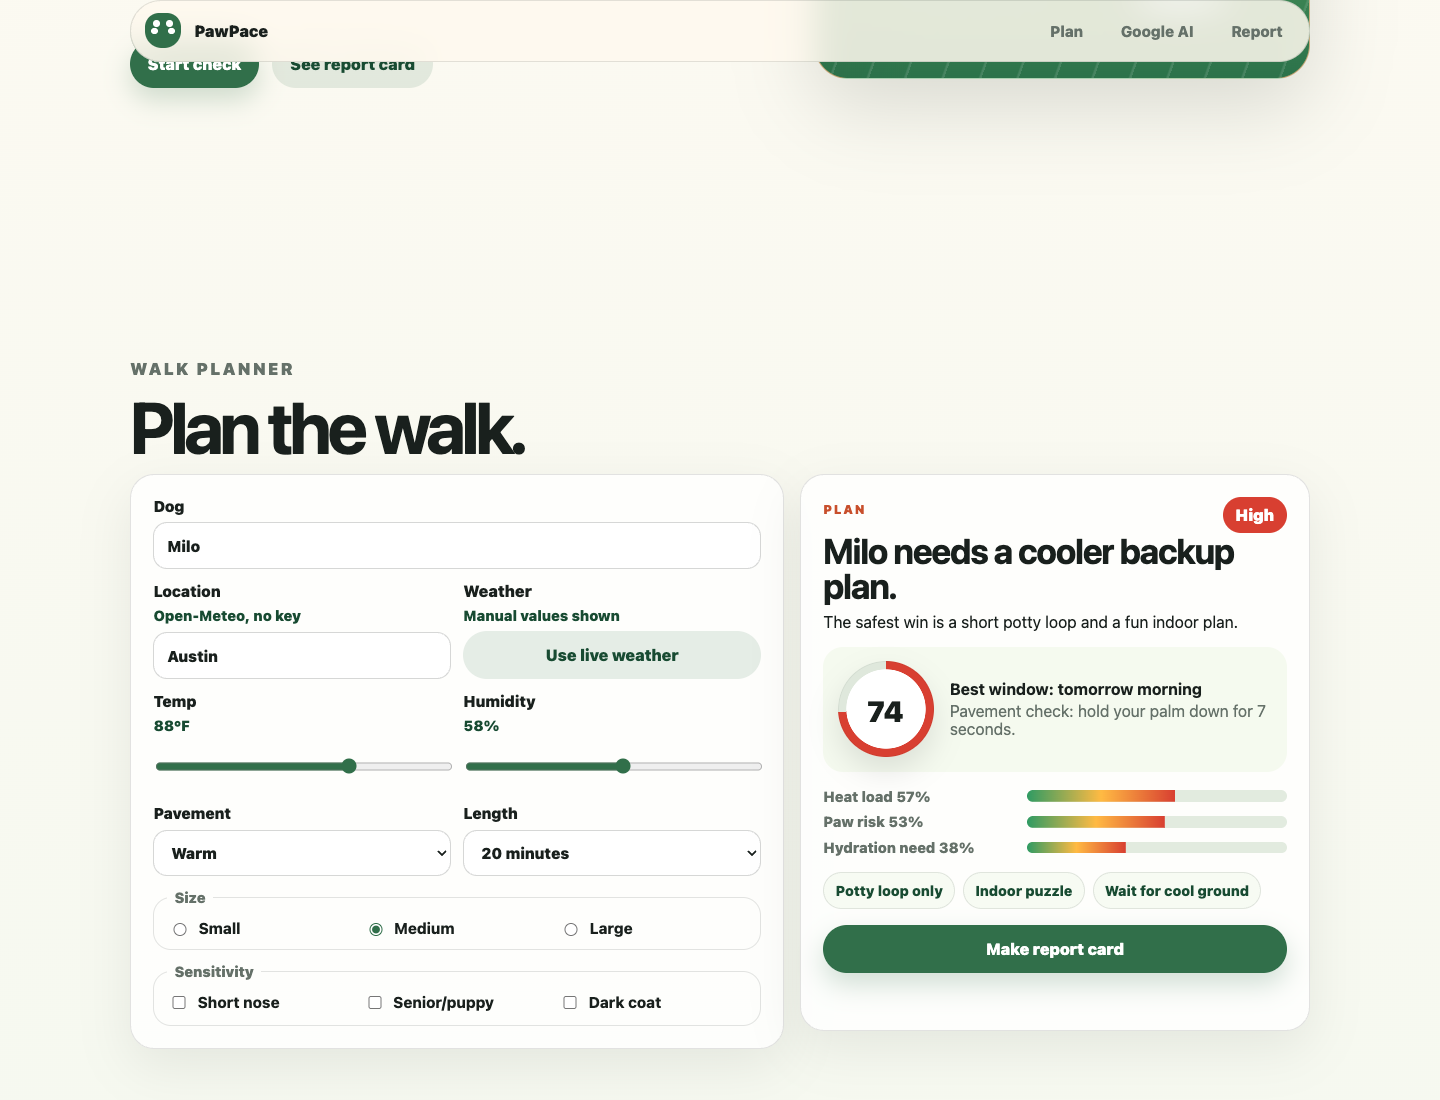
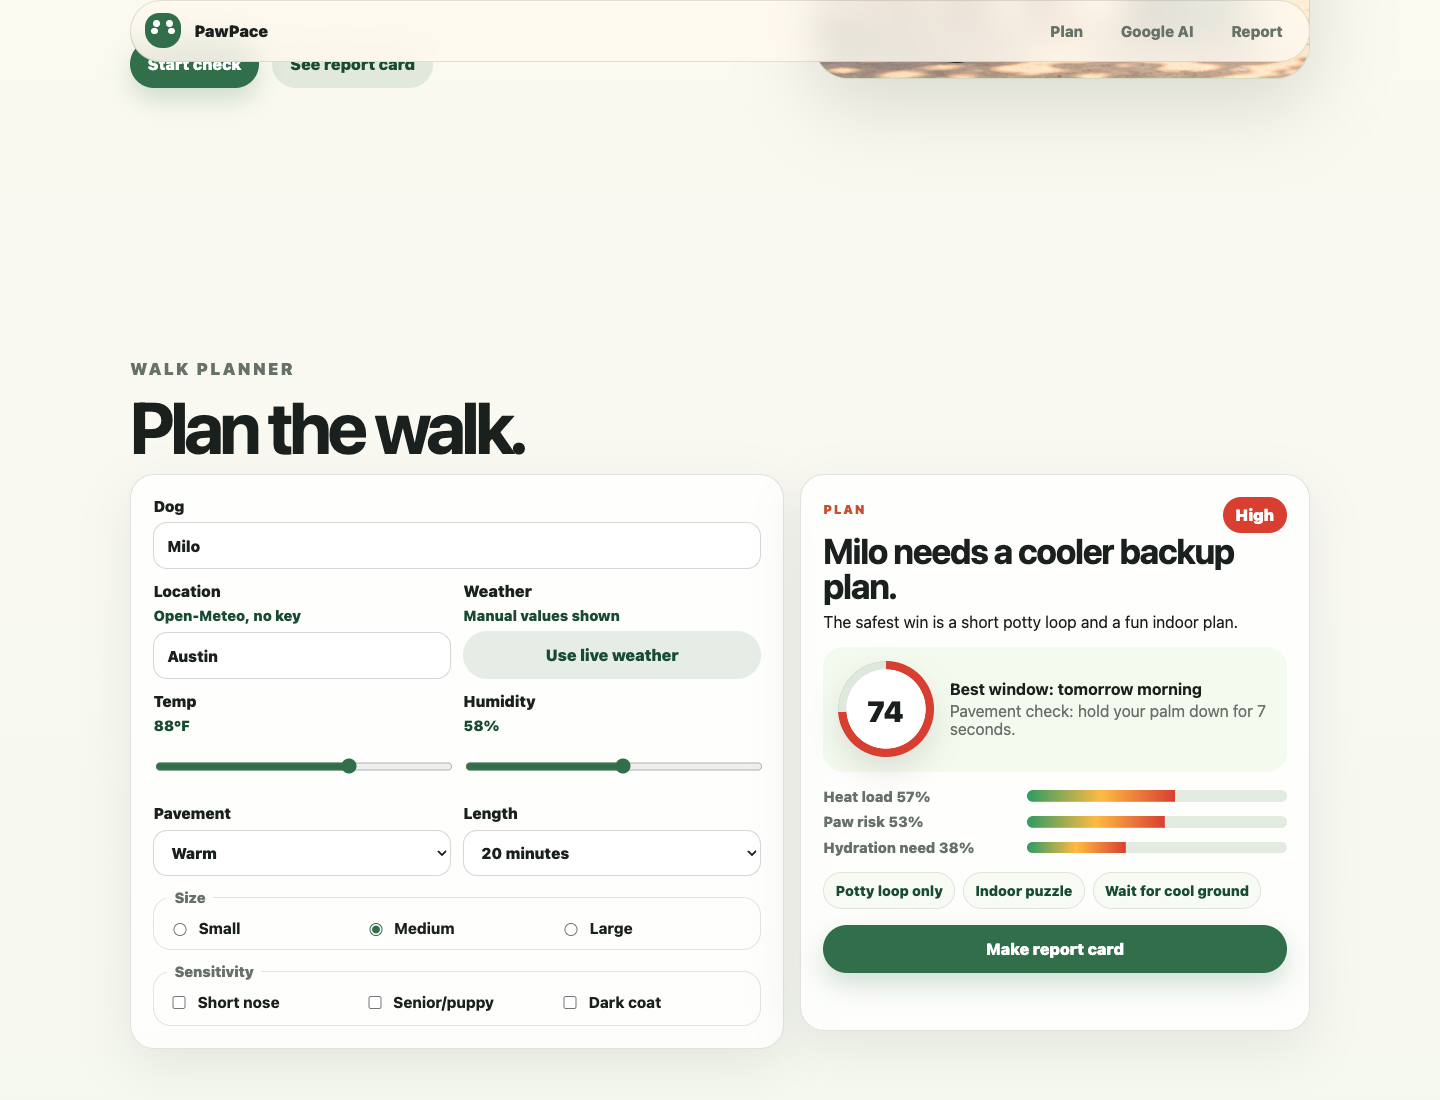
Use polished PawPace dog hero

Changed region(s): [[0.5625, 0.0, 0.9375, 0.0927]]

diff --git a/dog-days/styles.css b/dog-days/styles.css
@@ -266,230 +266,19 @@ select:focus-visible,
   overflow: hidden;
   border: 1px solid rgba(25, 32, 29, 0.12);
   border-radius: 34px;
-  background:
-    radial-gradient(circle at 78% 22%, rgba(255, 186, 67, 0.55), transparent 9rem),
-    linear-gradient(180deg, #bfe9c6 0%, #f7edc9 55%, #dbb37d 100%);
+  background: #eaf4d9;
   box-shadow: var(--shadow);
+  animation: hero-card-float 5.5s ease-in-out infinite;
 }
 
-.dog-card::before {
-  content: "";
+.hero-dog-image {
   position: absolute;
-  inset: 53% 0 0;
-  background:
-    repeating-linear-gradient(110deg, transparent 0 2rem, rgba(255, 255, 255, 0.12) 2.1rem 2.2rem),
-    linear-gradient(180deg, #5aa865, #2c724a);
-  border-radius: 42% 42% 0 0 / 12% 12% 0 0;
-}
-
-.sun {
-  position: absolute;
-  right: 12%;
-  top: 10%;
-  width: 7.4rem;
-  aspect-ratio: 1;
-  border-radius: 50%;
-  background: #ffd86d;
-  box-shadow: 0 0 64px rgba(255, 186, 67, 0.72);
-  animation: sun-pulse 4s ease-in-out infinite;
-}
-
-.shade {
-  position: absolute;
-  left: 0;
-  top: 0;
-  width: 58%;
+  inset: 0;
+  width: 100%;
   height: 100%;
-  background: linear-gradient(115deg, rgba(25, 32, 29, 0.14), transparent 66%);
-}
-
-.leash {
-  position: absolute;
-  left: 14%;
-  top: 20%;
-  width: 17rem;
-  height: 17rem;
-  border: 0.7rem solid rgba(31, 111, 139, 0.7);
-  border-left-color: transparent;
-  border-bottom-color: transparent;
-  border-radius: 50%;
-  transform: rotate(24deg);
-}
-
-.dog {
-  position: absolute;
-  left: 22%;
-  bottom: 14%;
-  width: min(48vw, 360px);
-  height: 260px;
-  filter: drop-shadow(0 18px 18px rgba(25, 32, 29, 0.15));
-  animation: dog-breathe 3.2s ease-in-out infinite;
-}
-
-.dog span {
-  position: absolute;
-}
-
-.dog::after {
-  content: "";
-  position: absolute;
-  left: 23%;
-  right: 7%;
-  bottom: 3%;
-  height: 1rem;
-  border-radius: 50%;
-  background: rgba(25, 32, 29, 0.14);
-  filter: blur(8px);
-}
-
-.body {
-  left: 25%;
-  bottom: 18%;
-  width: 58%;
-  height: 42%;
-  border-radius: 48% 44% 42% 48%;
-  background: linear-gradient(145deg, #f4b15a, #b96331);
-  box-shadow: inset -22px -18px 0 rgba(116, 56, 27, 0.18);
-  transform-origin: center bottom;
-  animation: body-squish 3.2s ease-in-out infinite;
-}
-
-.head {
-  left: 4%;
-  bottom: 39%;
-  width: 37%;
-  aspect-ratio: 1;
-  border-radius: 52% 44% 54% 46%;
-  background: linear-gradient(145deg, #ffcc7d, #bc6c34);
-  box-shadow:
-    inset -0.85rem -0.7rem 0 rgba(119, 55, 27, 0.12),
-    inset 0.6rem 0.5rem 0 rgba(255, 236, 181, 0.23);
-  animation: head-tilt 3.8s ease-in-out infinite;
-}
-
-.head::before {
-  content: "";
-  position: absolute;
-  left: 18%;
-  bottom: 20%;
-  width: 1rem;
-  aspect-ratio: 1;
-  border-radius: 50%;
-  background: rgba(255, 132, 105, 0.24);
-}
-
-.head::after {
-  content: none;
-}
-
-.ear {
-  left: 12%;
-  bottom: 60%;
-  width: 17%;
-  height: 34%;
-  border-radius: 78% 22% 72% 28%;
-  background: linear-gradient(160deg, #8a4328, #6e301f);
-  transform: rotate(-30deg);
-  transform-origin: 70% 15%;
-  animation: ear-flop 3.8s ease-in-out infinite;
-}
-
-.eye {
-  left: 27%;
-  bottom: 61%;
-  width: 0.7rem;
-  aspect-ratio: 1;
-  border-radius: 50%;
-  background: var(--ink);
-  box-shadow: 0.15rem -0.12rem 0 0.08rem rgba(255, 255, 255, 0.8);
-  transform-origin: center;
-  animation: blink 5s ease-in-out infinite;
-}
-
-.nose {
-  left: 5%;
-  bottom: 53%;
-  width: 1rem;
-  aspect-ratio: 1.25;
-  border-radius: 50%;
-  background: var(--ink);
-  box-shadow: 0.18rem -0.08rem 0 0.08rem rgba(255, 255, 255, 0.24);
-}
-
-.nose::after {
-  content: "";
-  position: absolute;
-  left: 0.68rem;
-  top: 0.72rem;
-  width: 1.35rem;
-  height: 0.62rem;
-  border-bottom: 0.16rem solid rgba(25, 32, 29, 0.64);
-  border-radius: 0 0 999px 999px;
-}
-
-.tail {
-  right: 1%;
-  bottom: 46%;
-  width: 30%;
-  height: 18%;
-  border-radius: 999px;
-  border-top: 1.2rem solid #b96331;
-  transform: rotate(36deg);
-  transform-origin: left center;
-  animation: tail-wag 0.88s ease-in-out infinite;
-}
-
-.leg {
-  bottom: 8%;
-  width: 12%;
-  height: 24%;
-  border-radius: 999px;
-  background: #8a4729;
-  box-shadow: inset -0.32rem -0.25rem 0 rgba(25, 32, 29, 0.12);
-}
-
-.leg.front { left: 35%; }
-.leg.back { left: 68%; }
-
-.bowl {
-  position: absolute;
-  right: 13%;
-  bottom: 11%;
-  width: 8rem;
-  height: 4.2rem;
-  border-radius: 12% 12% 50% 50%;
-  background: linear-gradient(180deg, #fff, #91c9e1);
-  box-shadow: 0 16px 24px rgba(25, 32, 29, 0.2);
-}
-
-.bowl span {
-  position: absolute;
-  left: 12%;
-  top: 14%;
-  width: 76%;
-  height: 24%;
-  border-radius: 50%;
-  background: #6fc5e7;
-}
-
-.thermo {
-  position: absolute;
-  right: 18%;
-  top: 34%;
-  width: 1.2rem;
-  height: 12rem;
-  border-radius: 999px;
-  background: rgba(255, 255, 255, 0.64);
-}
-
-.thermo span {
-  position: absolute;
-  left: 18%;
-  right: 18%;
-  bottom: 8%;
-  height: 68%;
-  border-radius: 999px;
-  background: linear-gradient(180deg, var(--hot), var(--sun));
+  object-fit: cover;
+  object-position: 52% center;
+  transform: scale(1.02);
 }
 
 .section-heading {
@@ -869,74 +658,13 @@ input[type="radio"] {
   white-space: nowrap;
 }
 
-@keyframes tail-wag {
-  0%,
-  100% {
-    transform: rotate(24deg);
-  }
-  50% {
-    transform: rotate(56deg);
-  }
-}
-
-@keyframes dog-breathe {
+@keyframes hero-card-float {
   0%,
   100% {
     transform: translateY(0);
   }
   50% {
-    transform: translateY(-0.28rem);
-  }
-}
-
-@keyframes body-squish {
-  0%,
-  100% {
-    transform: scale(1);
-  }
-  50% {
-    transform: scale(1.018, 0.988);
-  }
-}
-
-@keyframes head-tilt {
-  0%,
-  100% {
-    transform: rotate(-1deg);
-  }
-  50% {
-    transform: rotate(3deg) translateY(-0.12rem);
-  }
-}
-
-@keyframes ear-flop {
-  0%,
-  100% {
-    transform: rotate(-30deg);
-  }
-  50% {
-    transform: rotate(-22deg) translateY(0.08rem);
-  }
-}
-
-@keyframes blink {
-  0%,
-  92%,
-  100% {
-    transform: scaleY(1);
-  }
-  95% {
-    transform: scaleY(0.12);
-  }
-}
-
-@keyframes sun-pulse {
-  0%,
-  100% {
-    transform: scale(1);
-  }
-  50% {
-    transform: scale(1.05);
+    transform: translateY(-0.35rem);
   }
 }
 
@@ -1045,27 +773,8 @@ input[type="radio"] {
     min-height: 430px;
   }
 
-  .dog {
-    left: 4%;
-    bottom: 13%;
-    width: 330px;
-    transform: scale(0.78);
-    transform-origin: left bottom;
-  }
-
-  .sun {
-    right: 2.5rem;
-    width: 6.2rem;
-  }
-
-  .thermo {
-    right: 0.9rem;
-    height: 10rem;
-  }
-
-  .bowl {
-    right: 0.8rem;
-    width: 6rem;
+  .hero-dog-image {
+    object-position: 50% center;
   }
 }
 

diff --git a/dog-days/index.html b/dog-days/index.html
@@ -54,27 +54,12 @@
           </div>
         </div>
 
-        <div class="dog-card" role="img" aria-labelledby="dog-art-title dog-art-desc">
-          <h2 id="dog-art-title" class="sr-only">Illustration of a dog waiting for a safer walk</h2>
-          <p id="dog-art-desc" class="sr-only">
-            A CSS illustration of a dog near a leash, water bowl, shade, and sun
-            meter.
-          </p>
-          <span class="sun"></span>
-          <span class="shade"></span>
-          <span class="leash"></span>
-          <div class="dog">
-            <span class="tail"></span>
-            <span class="body"></span>
-            <span class="head"></span>
-            <span class="ear"></span>
-            <span class="eye"></span>
-            <span class="nose"></span>
-            <span class="leg front"></span>
-            <span class="leg back"></span>
-          </div>
-          <span class="bowl"><span></span></span>
-          <span class="thermo"><span></span></span>
+        <div class="dog-card">
+          <img
+            class="hero-dog-image"
+            src="assets/pawpace-hero-dog.png"
+            alt="Happy dog sitting in shade with a leash and water bowl on a sunny day."
+          />
         </div>
       </section>
 

diff --git a/dog-days/README.md b/dog-days/README.md
@@ -14,7 +14,7 @@ and dog sensitivity into a readable walk plan.
 - Indoor enrichment backup plan for high-risk weather.
 - Optional Google AI mode using a local, user-provided Google AI Studio key.
 - Shareable dog-perspective walk report card with image download.
-- CSS dog illustration, responsive layout, keyboard focus states, and
+- Polished dog hero image, responsive layout, keyboard focus states, and
   reduced-motion support.
 
 ## Live Demo

diff --git a/dev-post-dog-days.md b/dev-post-dog-days.md
@@ -101,7 +101,7 @@ Mobile:
 ## Technical Details
 
 - Vanilla HTML, CSS, and JavaScript
-- CSS dog illustration, sun meter, leash, shade, and water bowl
+- polished dog hero image with leash, shade, and water bowl
 - Open-Meteo geocoding and current weather lookup
 - rule-based scoring model for walk caution, paw risk, and hydration need
 - color-coded visual risk meter and risk breakdown bars
